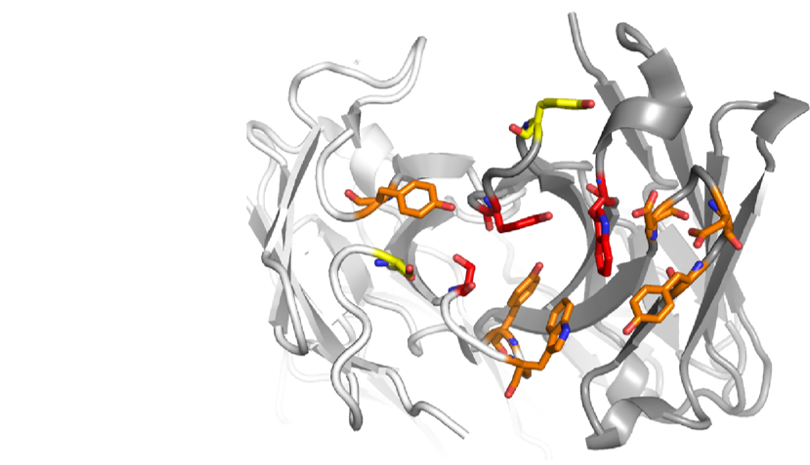
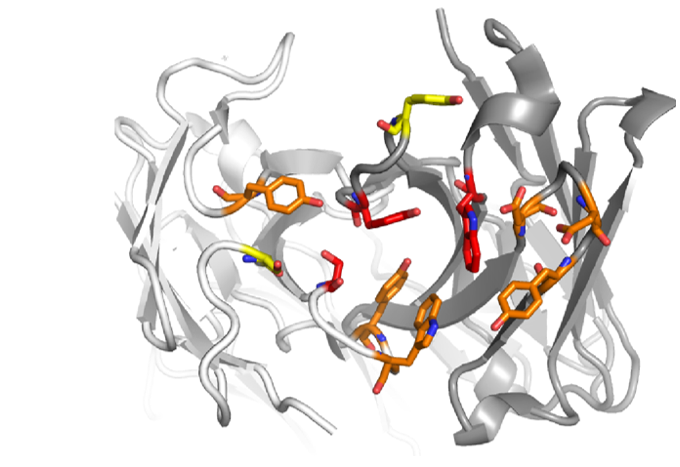
resize protein.png

diff --git a/index_source.html b/index_source.html
@@ -21,7 +21,7 @@
         <li class="Stil4">Multiple Sklerose</li>
       </ul>
       </td>
-      <td><img src="protein.png" alt="" height="180"></td>
+      <td><img src="protein.png" alt="" height="120"></td>
     </tr></table>
 <p></p>
 Gegründet 2006 durch die Universität Zürich und Prof. Dr. Adriano Aguzzi

diff --git a/website/index.html b/website/index.html
@@ -64,7 +64,7 @@
         <li class="Stil4">Multiple Sklerose</li>
       </ul>
       </td>
-      <td><img src="protein.png" alt="" height="180"></td>
+      <td><img src="protein.png" alt="" height="120"></td>
     </tr></table>
 <p></p>
 Gegründet 2006 durch die Universität Zürich und Prof. Dr. Adriano Aguzzi
